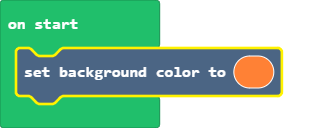
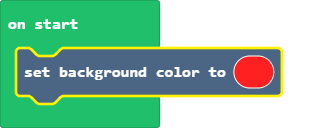
Update main.blocks, main.ts

Changed region(s): [[0.6886, 0.4375, 0.8383, 0.6875]]

diff --git a/main.ts b/main.ts
@@ -1,1 +1,1 @@
-scene.setBackgroundColor(4)
+scene.setBackgroundColor(2)
